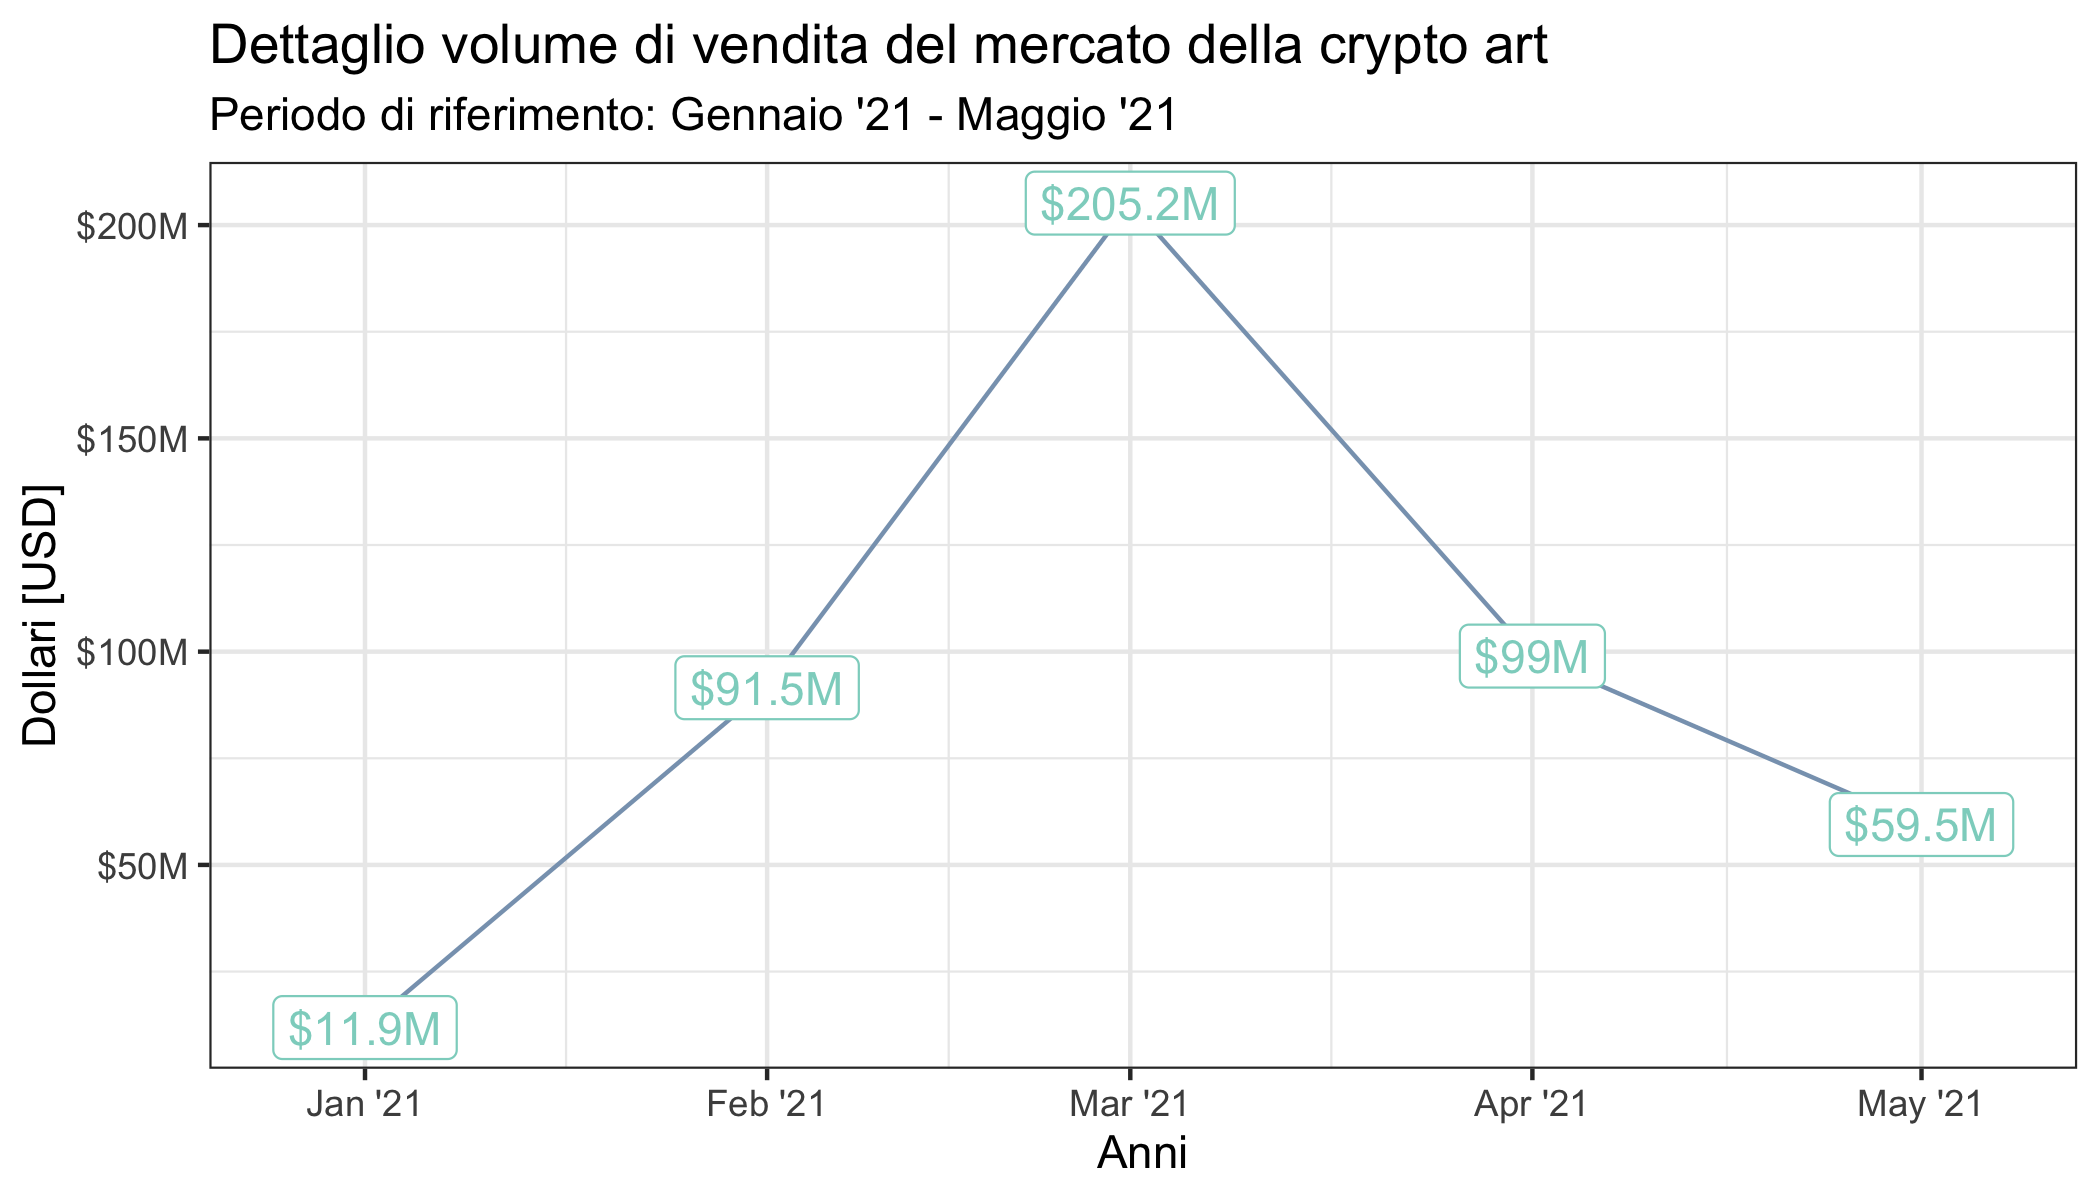
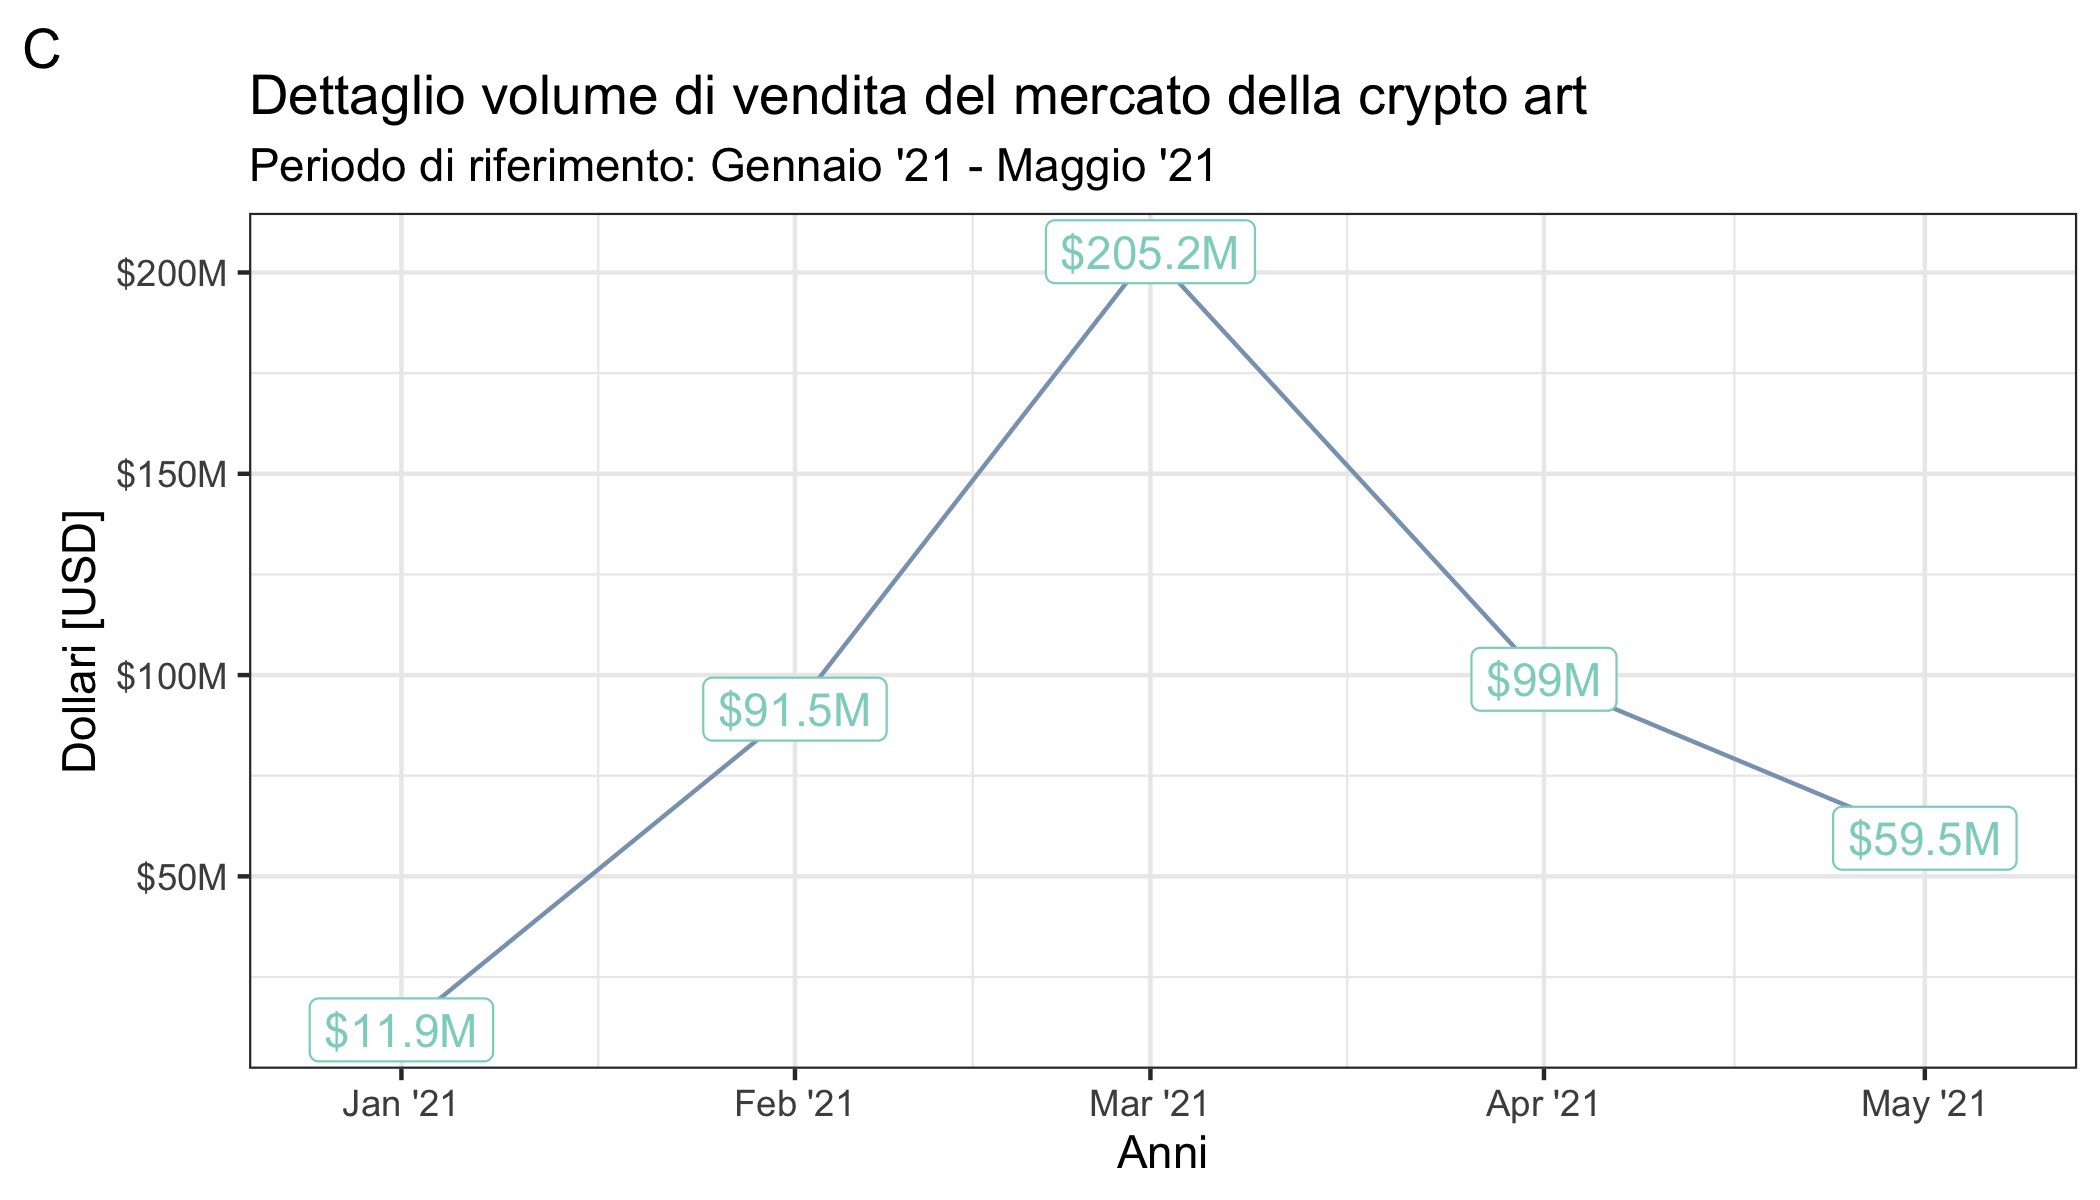
Added sequential tag in some graphs

diff --git a/README.md b/README.md
@@ -223,6 +223,7 @@ barre <- crypto_art %>%
   scale_y_continuous(labels = function(v) ifelse(v == "0", paste0("$", v / 1000000), paste0("$", v / 1000000,"M"))) +
   ylab("") +
   xlab("") +
+  labs(tag = "A") +
   ggtitle("Dettaglio andamento con suddivisione in quote di mercato") +
   theme_bw() +
   theme(plot.title = element_text(size = 7.5))
@@ -247,7 +248,7 @@ linee_log <- crypto_art %>%
   scale_y_log10(breaks = scales::trans_breaks('log10', function(x) 10^x), labels = function(v) scales::math_format()((log10(v)))) +
   ylab("") +
   xlab("") +
-  labs(caption = "Fonte: CryptoArt @ https://cryptoart.io/data") +
+  labs(caption = "Fonte: CryptoArt @ https://cryptoart.io/data", tag = "B") +
   ggtitle("Dettaglio quote di mercato con scala logaritmica") +
   theme_bw() +
   theme(plot.title = element_text(size = 7.5))
@@ -272,6 +273,7 @@ crypto_art %>%
   ggtitle("Dettaglio volume di vendita del mercato della crypto art", "Periodo di riferimento: Gennaio '21 - Maggio '21") +
   xlab("Anni") +
   ylab("Dollari [USD]") +
+  labs(tag = "C") + 
   scale_y_continuous(labels = function(v) ifelse(v == "0", paste0("$", v / 1000000), paste0("$", v / 1000000,"M"))) +
   scale_x_date(date_labels = "%b '%y", expand = expansion(mult = c(0.1, 0.1))) +
   theme_bw()
